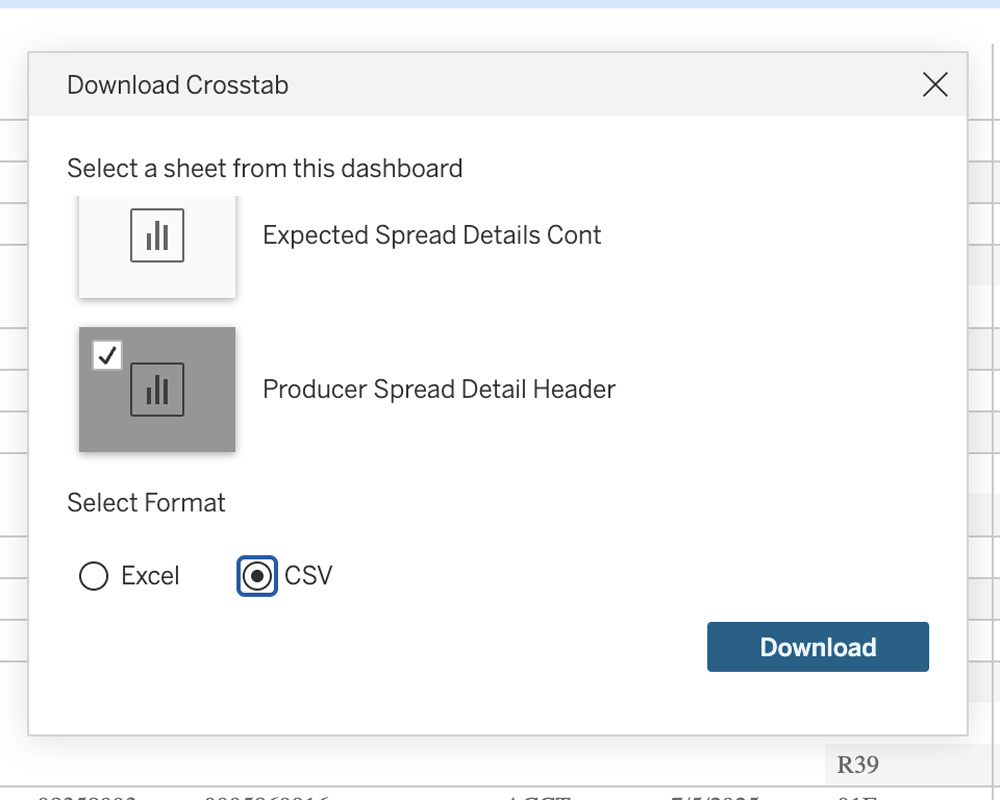
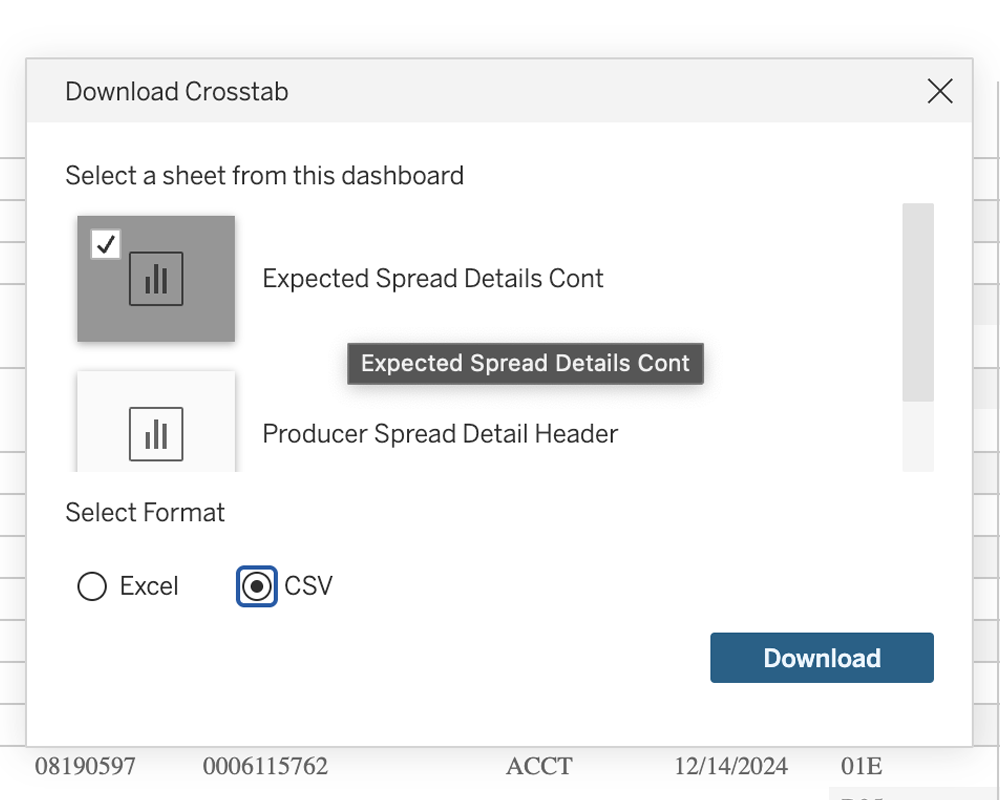
Update upload instructions

diff --git a/templates/reports/upload.html b/templates/reports/upload.html
@@ -49,7 +49,7 @@
                                   <div class="carousel-item">
                                     <img src="{% static 'images/upload/spread-tracker-upload-instruction-2.png' %}" class="d-block w-100" alt="Instructions Step 2">
                                     <div class="mt-2">
-                                        <p>Then choose CSV as the file type and click "Download".</p>
+                                        <p>Click "Expected Spread Details Cont", then choose CSV as the file type and click "Download".</p>
                                     </div>
                                   </div>
                                 </div>
